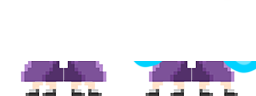
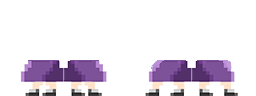
player as a group

diff --git a/js/Player.js b/js/Player.js
@@ -10,50 +10,64 @@ var timeAxe = 0;
 function playerPreload(){
 
   game.load.spritesheet('granny', 'assets/images/granny_64x96.png', 64, 96);
-  game.load.spritesheet('grannyUp', 'assets/images/granny_up_64x60.png', 64, 60);
-  game.load.spritesheet('grannyDown', 'assets/images/granny_down64x36.png', 64, 36);
+  game.load.spritesheet('grannyUp', 'assets/images/granny_up_64x96.png', 64, 96);
+  game.load.spritesheet('grannyDown', 'assets/images/granny_down_64x96.png', 64, 96);
 
 
 };
 
 function playerCreate(){
 
-  player.frame = 1;
-  game.camera.follow(player);
+  player = game.add.group();
+  playerUp = player.create(spawnX, spawnY, 'grannyUp');
+  playerDown = player.create(spawnX, spawnY, 'grannyDown');
+  game.camera.follow(playerUp);
 
   //player PHYSICS
   game.physics.arcade.enable(player);
-  player.body.collideWorldBounds = true;
-  player.body.bounce.y = bounce;
-  player.body.gravity.y = gravity;
+  player.enableBody = true;
+  player.setAll('body.collideWorldBounds', true);
+  player.setAll('body.bounce.y', bounce);
+  player.setAll('body.gravity.y', gravity);
 
   //player HEALTH
-  player.health = 100;
-  player.maxHealth = 100;
-  player.heal(100);
+  playerUp.health = 100;
+  playerUp.maxHealth = 100;
+  playerUp.heal(100);
+
+  playerDown.animations.add('right', [1, 3], 10, true);
+  playerDown.animations.add('left', [0, 2], 10, true);
 
 };
 
 function playerUpdate(){
 
   //player MOVEMENT start
+  if(playerUp.body.touching.down){}
   if (cursors.left.isDown && game.time.now > timeHit){
-      player.body.velocity.x = -playerVelocity;
-      position = "leftt";
+    player.setAll('body.velocity.x', -playerVelocity);
+    position = "leftt";
+    if(playerUp.body.touching.down) {playerDown.animations.play('left');}
+    else {playerDown.frame = 2;}
+  }else if (position == "leftt"){
+    playerDown.frame = 2;
   }
-  else if (cursors.right.isDown && game.time.now > timeHit){
-      player.body.velocity.x = playerVelocity;
-      position = "rightt";
-
+  if (cursors.right.isDown && game.time.now > timeHit){
+    player.setAll('body.velocity.x', playerVelocity);
+    position = "rightt";
+    if(playerUp.body.touching.down) {playerDown.animations.play('right');}
+    else {playerDown.frame = 3;}
+  }else if (position == "rightt"){
+    playerDown.frame = 3;
   }
 
-  player.body.velocity.x = player.body.velocity.x * slowDownFactor;
+  player.setAll('body.velocity.x', playerUp.body.velocity.x * slowDownFactor);
   //player MOVEMENT end
 
   //player JUMP start
-  if (cursors.up.isDown && player.body.touching.down){
-      player.body.velocity.y = playerJump;
-      salto = 1;
+  if (cursors.up.isDown && playerUp.body.touching.down){
+    player.setAll('body.velocity.y', playerJump);
+    salto = 1;
   }
 
   if (cursors.up.isUp && salto == 1){
@@ -61,27 +75,34 @@ function playerUpdate(){
   }
 
   if (cursors.up.isDown && salto == 2){
-      player.body.velocity.y = playerJump;
-      salto = 3;
+    player.setAll('body.velocity.y', playerJump);
+    salto = 3;
   }
   //player JUMP end
 
-  axeChop();
+  axeChop(); //find in Functions.js
 
   if(axeHit == false){
+    if(gotAxe==1){
+      game.physics.arcade.overlap(platformsDes, player, elide, null, this);
+    }else{
+      game.physics.arcade.collide(player, platformsDes);
+    }
     if(position == 'rightt'){
-      player.frame = 3;
+      playerUp.frame = 3;
     }
     else{
-      player.frame = 2;
+      playerUp.frame = 2;
     }
   }
   else{
+    game.physics.arcade.collide(player, platformsDes);
+
     if(position == 'leftt'){
-      player.frame = 0;
+      playerUp.frame = 0;
     }
     else{
-      player.frame = 1;
+      playerUp.frame = 1;
     }
   }
 

diff --git a/js/Functions.js b/js/Functions.js
@@ -48,9 +48,6 @@ function wolfPatrolCreate(x, y, xp, yp){
   //patrol
 };
 
-function playerSpawn(x, y){
-  player = game.add.sprite(x*m, y*m, 'granny');
-}
 // CREATE functions end
 
 // COLLIDE functions start
@@ -58,35 +55,36 @@ function elide(siElide, rimane) {
     siElide.kill();
 };
 
-function thornHit(player, thorn) {
+function thornHit(playerFunction, thorn) {
   if (game.time.now>timeHit){
     if(thorn.body.touching.up){
-      player.body.velocity.y=-400;
-      player.damage(25);
+      player.setAll('body.velocity.y', -400);
+      playerUp.damage(10);
       timeHit=game.time.now+300;
     }else if(thorn.body.touching.left){
-      player.body.velocity.x=-600;
-      player.damage(25);
+      player.setAll('body.velocity.x', -600);
+      playerUp.damage(10);
       timeHit=game.time.now+300;
     }else if(thorn.body.touching.right){
-      player.body.velocity.y=600;
-      player.damage(25);
+      player.setAll('body.velocity.y', 600);
+      playerUp.damage(10);
       timeHit=game.time.now+300;
     }
   }
 };
 
 function wolfHit(player, wolf) {
-  if((player.x +32 - wolf.x)/Math.abs(player.x +32 - wolf.x)>0 && position == 'leftt' && axeHit == false){
+  if((playerUp.x +32 - wolf.x)/Math.abs(playerUp.x +32 - wolf.x)>0 && position == 'leftt' && axeHit == false){
     wolf.kill();
   }
-  else if((player.x +32 - wolf.x)/Math.abs(player.x +32 - wolf.x)<0 && position == 'rightt' && axeHit == false){
+  else if((playerUp.x +32 - wolf.x)/Math.abs(playerUp.x +32 - wolf.x)<0 && position == 'rightt' && axeHit == false){
     wolf.kill();
   }
   else if (game.time.now > timeHit){
-    player.body.velocity.x = (player.x - wolf.x)/Math.abs(player.x - wolf.x)*4000;
+    playerUp.body.velocity.x = (playerUp.x - wolf.x)/Math.abs(playerUp.x - wolf.x)*4000;
+    playerDown.body.velocity.x = (playerDown.x - wolf.x)/Math.abs(playerDown.x - wolf.x)*4000;
     timeHit = game.time.now + 1000;
-    player.damage(25);
+    playerUp.damage(25);
   }
 };
 
@@ -102,14 +100,14 @@ function wolvesBehave(Wolves) {
 
 
   Wolves.forEach(function(wolf){
-   if(Math.abs(player.x - wolf.x) < 600){
-     wolf.body.velocity.x = (player.x - wolf.x)/Math.abs(player.x - wolf.x)*50;
+   if(Math.abs(playerUp.x - wolf.x) < 600){
+     wolf.body.velocity.x = (playerUp.x - wolf.x)/Math.abs(playerUp.x - wolf.x)*50;
    }
    else{
      wolf.body.velocity.x = 0;
    }
-   if (wolf.body.touching.down && player.body.touching.down && Math.abs(player.x - wolf.x) < 250) {
-     if(wolf.y - player.y > 15){
+   if (wolf.body.touching.down && playerUp.body.touching.down && Math.abs(playerUp.x - wolf.x) < 250) {
+     if(wolf.y - playerUp.y > 15){
      wolf.body.velocity.y = wolfJump;
      }
      else{
@@ -161,6 +159,15 @@ function testCreate(){
 };
 function testUpdate(){
   if(H.isDown){
-    player.heal(100);
+    playerUp.heal(100);
   }
+};
+
+function platformOverCollide (){
+  platformsOver.forEach(function(platform) {
+    if(playerUp.body.y + 85.5 - platform.body.y <= 0){
+      game.physics.arcade.collide(player, platform);
+    }
+  })
+
 };

diff --git a/js/World.js b/js/World.js
@@ -1,4 +1,6 @@
 var player;
+var playerUp;
+var playerDown;
 var Wolves;
 var Bullets;
 var thorns;
@@ -78,11 +80,10 @@ function worldUpdate(){
   game.physics.arcade.collide(Wolves, platformsOver);
   game.physics.arcade.collide(WolvesP, platforms);
   game.physics.arcade.collide(WolvesP, platformsOver);
-  game.physics.arcade.collide(player, platformsDes);
-  game.physics.arcade.overlap(player, thorns, thornHit, null, this);
+  game.physics.arcade.overlap(playerUp, thorns, thornHit, null, this);
   game.physics.arcade.overlap(Bullets, Wolves, kill, null, this);
   game.physics.arcade.overlap(Bullets, WolvesP, kill, null, this);
-  game.physics.arcade.overlap(player, axe, getAxe, null, this);
+  game.physics.arcade.overlap(playerUp, axe, getAxe, null, this);
   game.physics.arcade.overlap(Bullets, platforms, elide, null, this);
   game.physics.arcade.overlap(Bullets, platformsOver, elide, null, this);
 
@@ -92,14 +93,9 @@ function worldUpdate(){
     game.physics.arcade.overlap(Bullets, platformsDes, elide, null, this);
   }
 
-  platformsOver.forEach(function(platform) {
-    if(player.body.y + 85.5 - platform.body.y <= 0){
-      game.physics.arcade.collide(player, platform);
-    }
-  })
-  
+  platformOverCollide();
   // HUD
-  healthText.text = 'Health ' + player.health;
+  healthText.text = 'Health ' + playerUp.health;
 
 
 

diff --git a/js/Level_1.js b/js/Level_1.js
@@ -49,7 +49,6 @@ var GameLevel_1 = {
 
     gotAxe=0;
 
-    playerSpawn(40, 28);
     playerCreate(); //find in player.js
 
     //objects
@@ -119,7 +118,7 @@ var GameLevel_1 = {
       timeWolves = game.time.now + 4000;
     }
 
-    if(player.health <= 0)
+    if(playerUp.health <= 0)
     {
       this.game.state.start('GameLevel_1');
       gotAxe=0;

diff --git a/js/Var.js b/js/Var.js
@@ -12,6 +12,8 @@ var playerVelocity = 300;
 var playerJump = -400;
 var slowDownFactor = 0.87;
 var bulletVelocity = 500;
+var spawnX = 1*m;
+var spawnY = 52*m;
 
 //WOLF var
 var wolfJump = -250;
